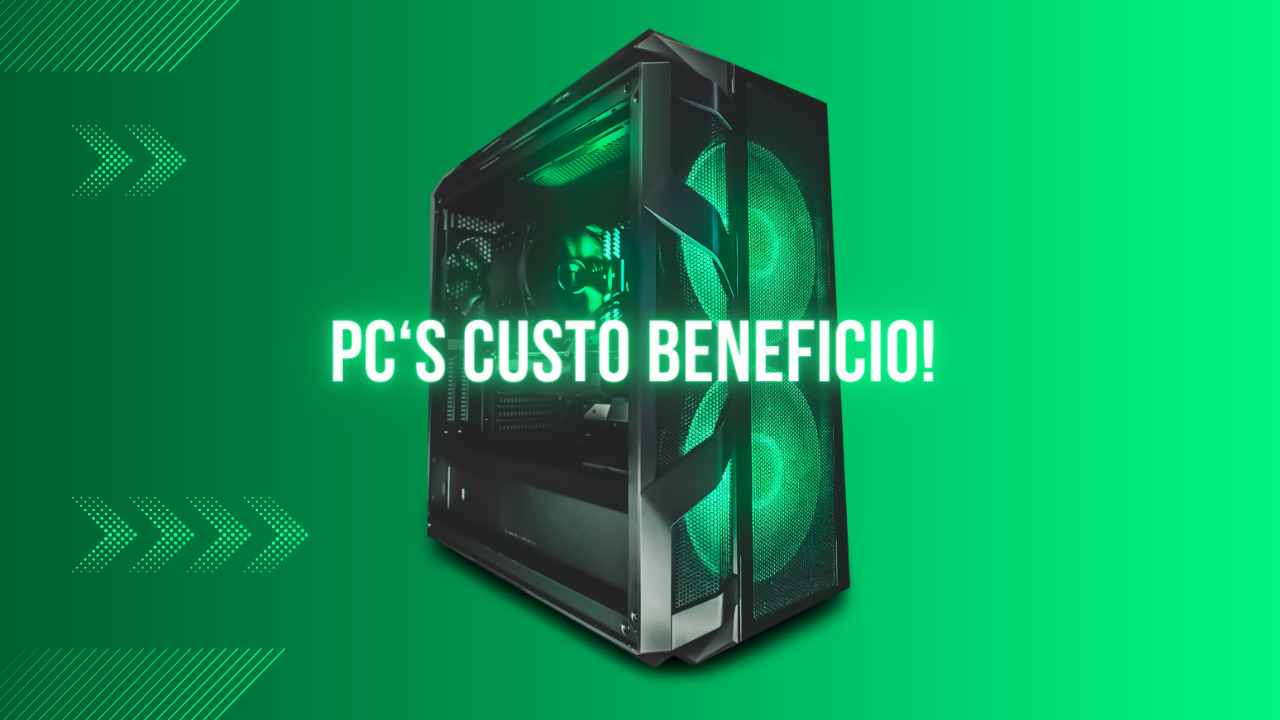
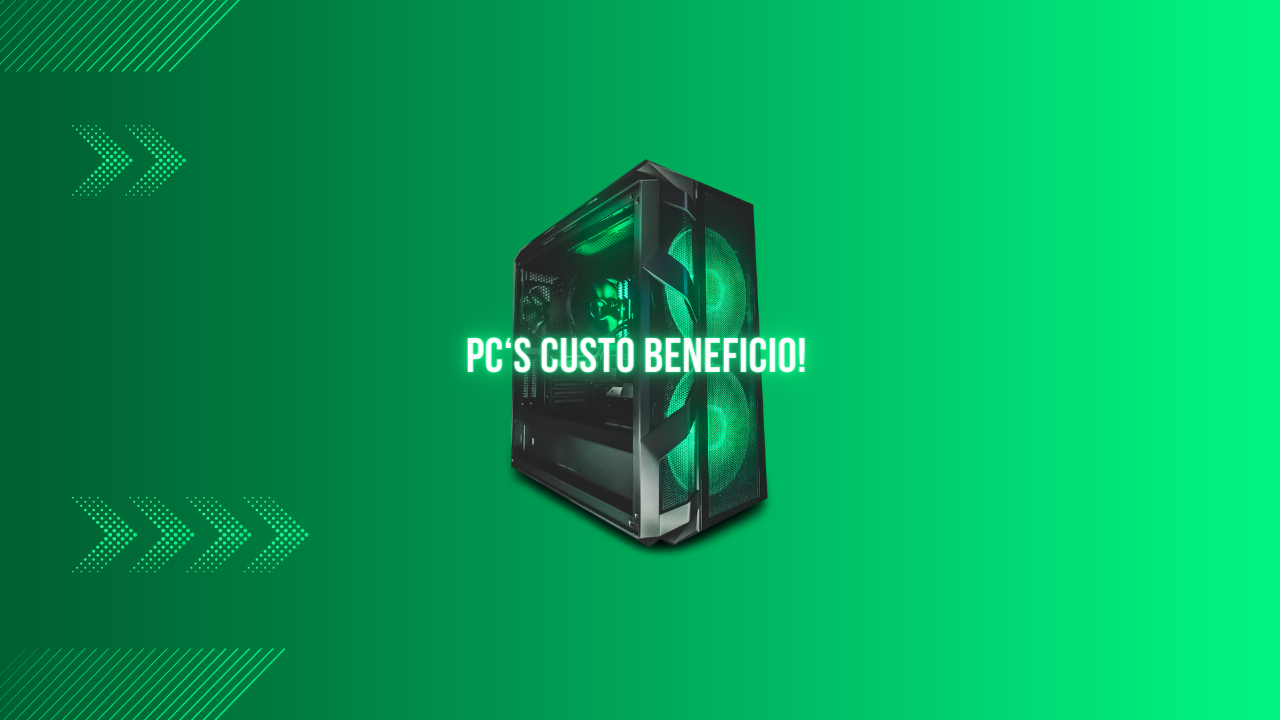
troquei as fotos dnv

Changed region(s): [[0.25, 0.0306, 0.75, 0.9472]]

diff --git a/style.css b/style.css
@@ -1,11 +1,17 @@
 @charset "UTF-8";
 
-@keyframes fadein{ from{
-    opacity: 0;
+@keyframes fadein {
+    from {
+        opacity: 0;
+    }
+
+    to {
+        opacity: 1;
+    }
 }
-to {
-    opacity: 1;
-}};
+
+;
+
 * {
     margin: 0px;
     padding: 0px;
@@ -25,7 +31,7 @@ header {
     color: black;
 }
 
-header{
+header {
     width: 100%
 }
 
@@ -48,6 +54,7 @@ header>p {
     text-decoration: overline;
     color: black;
 }
+
 menu>h2:hover {
     color: green;
     transition: 0.5s;
@@ -80,7 +87,8 @@ section>h2 {
 section#imagemparalax {
     width: auto;
 }
-section#custobeneficio{
+
+section#custobeneficio {
     margin-top: 80px;
 }
 
@@ -118,33 +126,38 @@ a {
 a>b {
     text-decoration: underline;
 }
-    footer{
-        background-color: green;
-        text-align: center;
-        padding-bottom: 10px;
-        box-shadow: 1px 1px 5px black;
-    }
 
-#valor{ font-size: xx-large;
+footer {
+    background-color: green;
+    text-align: center;
+    padding-bottom: 10px;
+    box-shadow: 1px 1px 5px black;
+}
+
+#valor {
+    font-size: xx-large;
     text-align: center;
     padding: 10px;
     margin: 10px;
 
 }
+
 .imagemparalax {
     background-color: rgba(0, 0, 0, 0.774);
     color: white;
     box-shadow: inset 6px 6px 13px 0px rgba(0, 0, 0, 0.63);
     background-size: cover;
-    background-attachment: fixed;
+    background-attachment: fixed ;
 }
 
 #custobeneficio {
     background-image: url(Imagens/pcs-de-entrada.png);
     background-position: center center;
+    background-repeat: no-repeat;
 }
 
 #highend {
     background-image: url(Imagens/pcs-high-end.png);
     background-position: center center;
+    background-repeat: no-repeat;
 }
